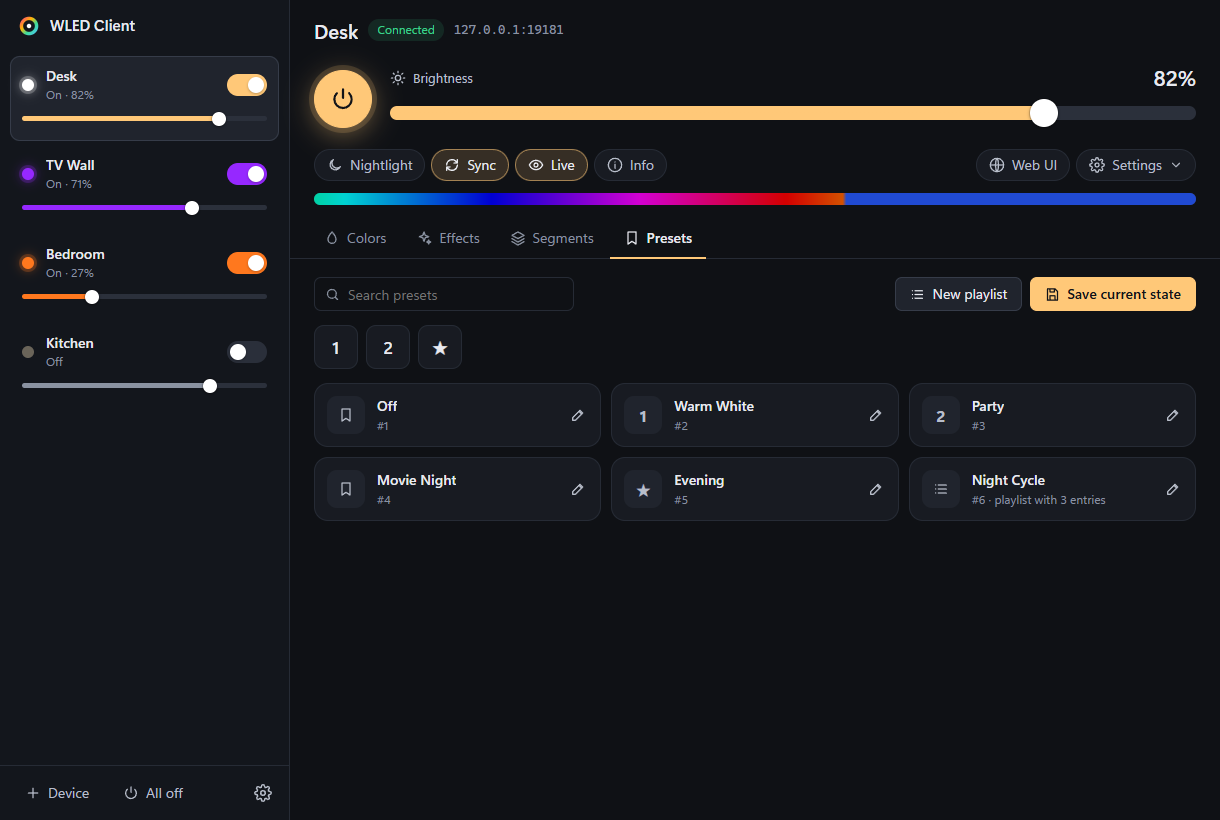
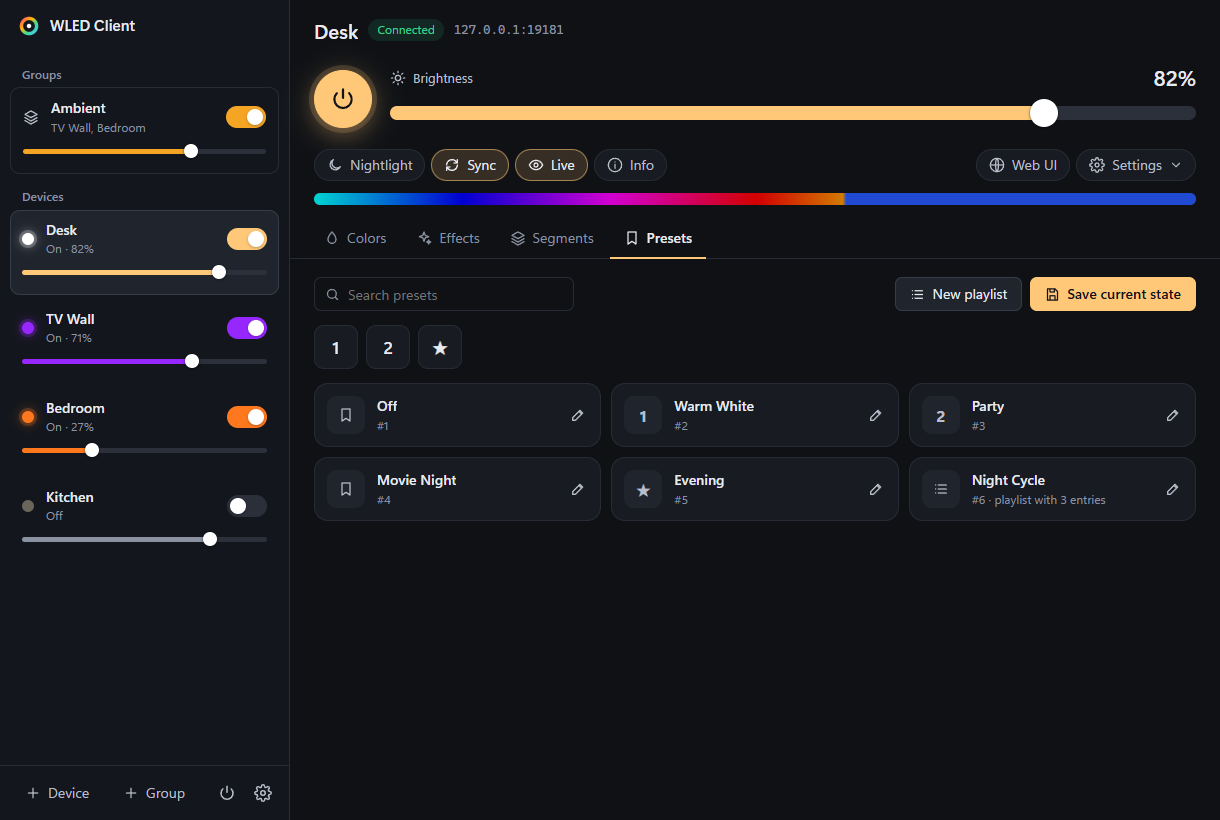
Screenshots and README for device groups

Changed region(s): [[0.0, 0.061, 0.218, 0.6707], [0.2492, 0.2134, 0.6852, 0.2744], [0.0934, 0.9451, 0.1557, 0.9756]]

diff --git a/README.md b/README.md
@@ -26,6 +26,8 @@ power and brightness of all lights from the Windows tray without opening anythin
 - **All your devices, one window** — sidebar with power toggle and brightness slider per device, switch with a
   click or `Ctrl+1…9`
 - **Tray quick-access** — click the tray icon: on/off and brightness for every light, plus *all off*
+- **Groups** — put lights into groups and switch or dim them together from the sidebar, the tray quick-access and
+  the tray menu; brightness scales proportionally, so dimmer lights stay dimmer
 - **Everything the web UI does**
   - **Colors** — color wheel, three color slots, hex/RGB, white channel (RGBW), color temperature (CCT), quick colors
   - **Effects** — all effects with search and filters (palette, 1D, 2D, audio); sliders and options are labeled
@@ -174,7 +176,8 @@ npm run demo                     # records docs/demo.gif + docs/demo.mp4 (needs 
 WLED Client ist eine Windows-App für alle WLED-Controller im Netz: Geräte per Klick oder `Strg+1…9` wechseln,
 Helligkeit und Ein/Aus direkt in der Seitenleiste und im Tray-Schnellzugriff, dazu alles, was die
 WLED-Weboberfläche kann (Farben, Effekte, Paletten, Segmente, Presets, Playlists, Nachtlicht, Sync,
-Live-Vorschau). Installer unter [Releases](https://github.com/bangboomben/wled-client/releases/latest),
+Live-Vorschau). Mehrere Lampen lassen sich zu Gruppen zusammenfassen und gemeinsam schalten
+und dimmen. Installer unter [Releases](https://github.com/bangboomben/wled-client/releases/latest),
 Installation ohne Administratorrechte. Die Oberfläche spricht Deutsch und Englisch, je nach Windows-Sprache.
 
 ## Feedback
